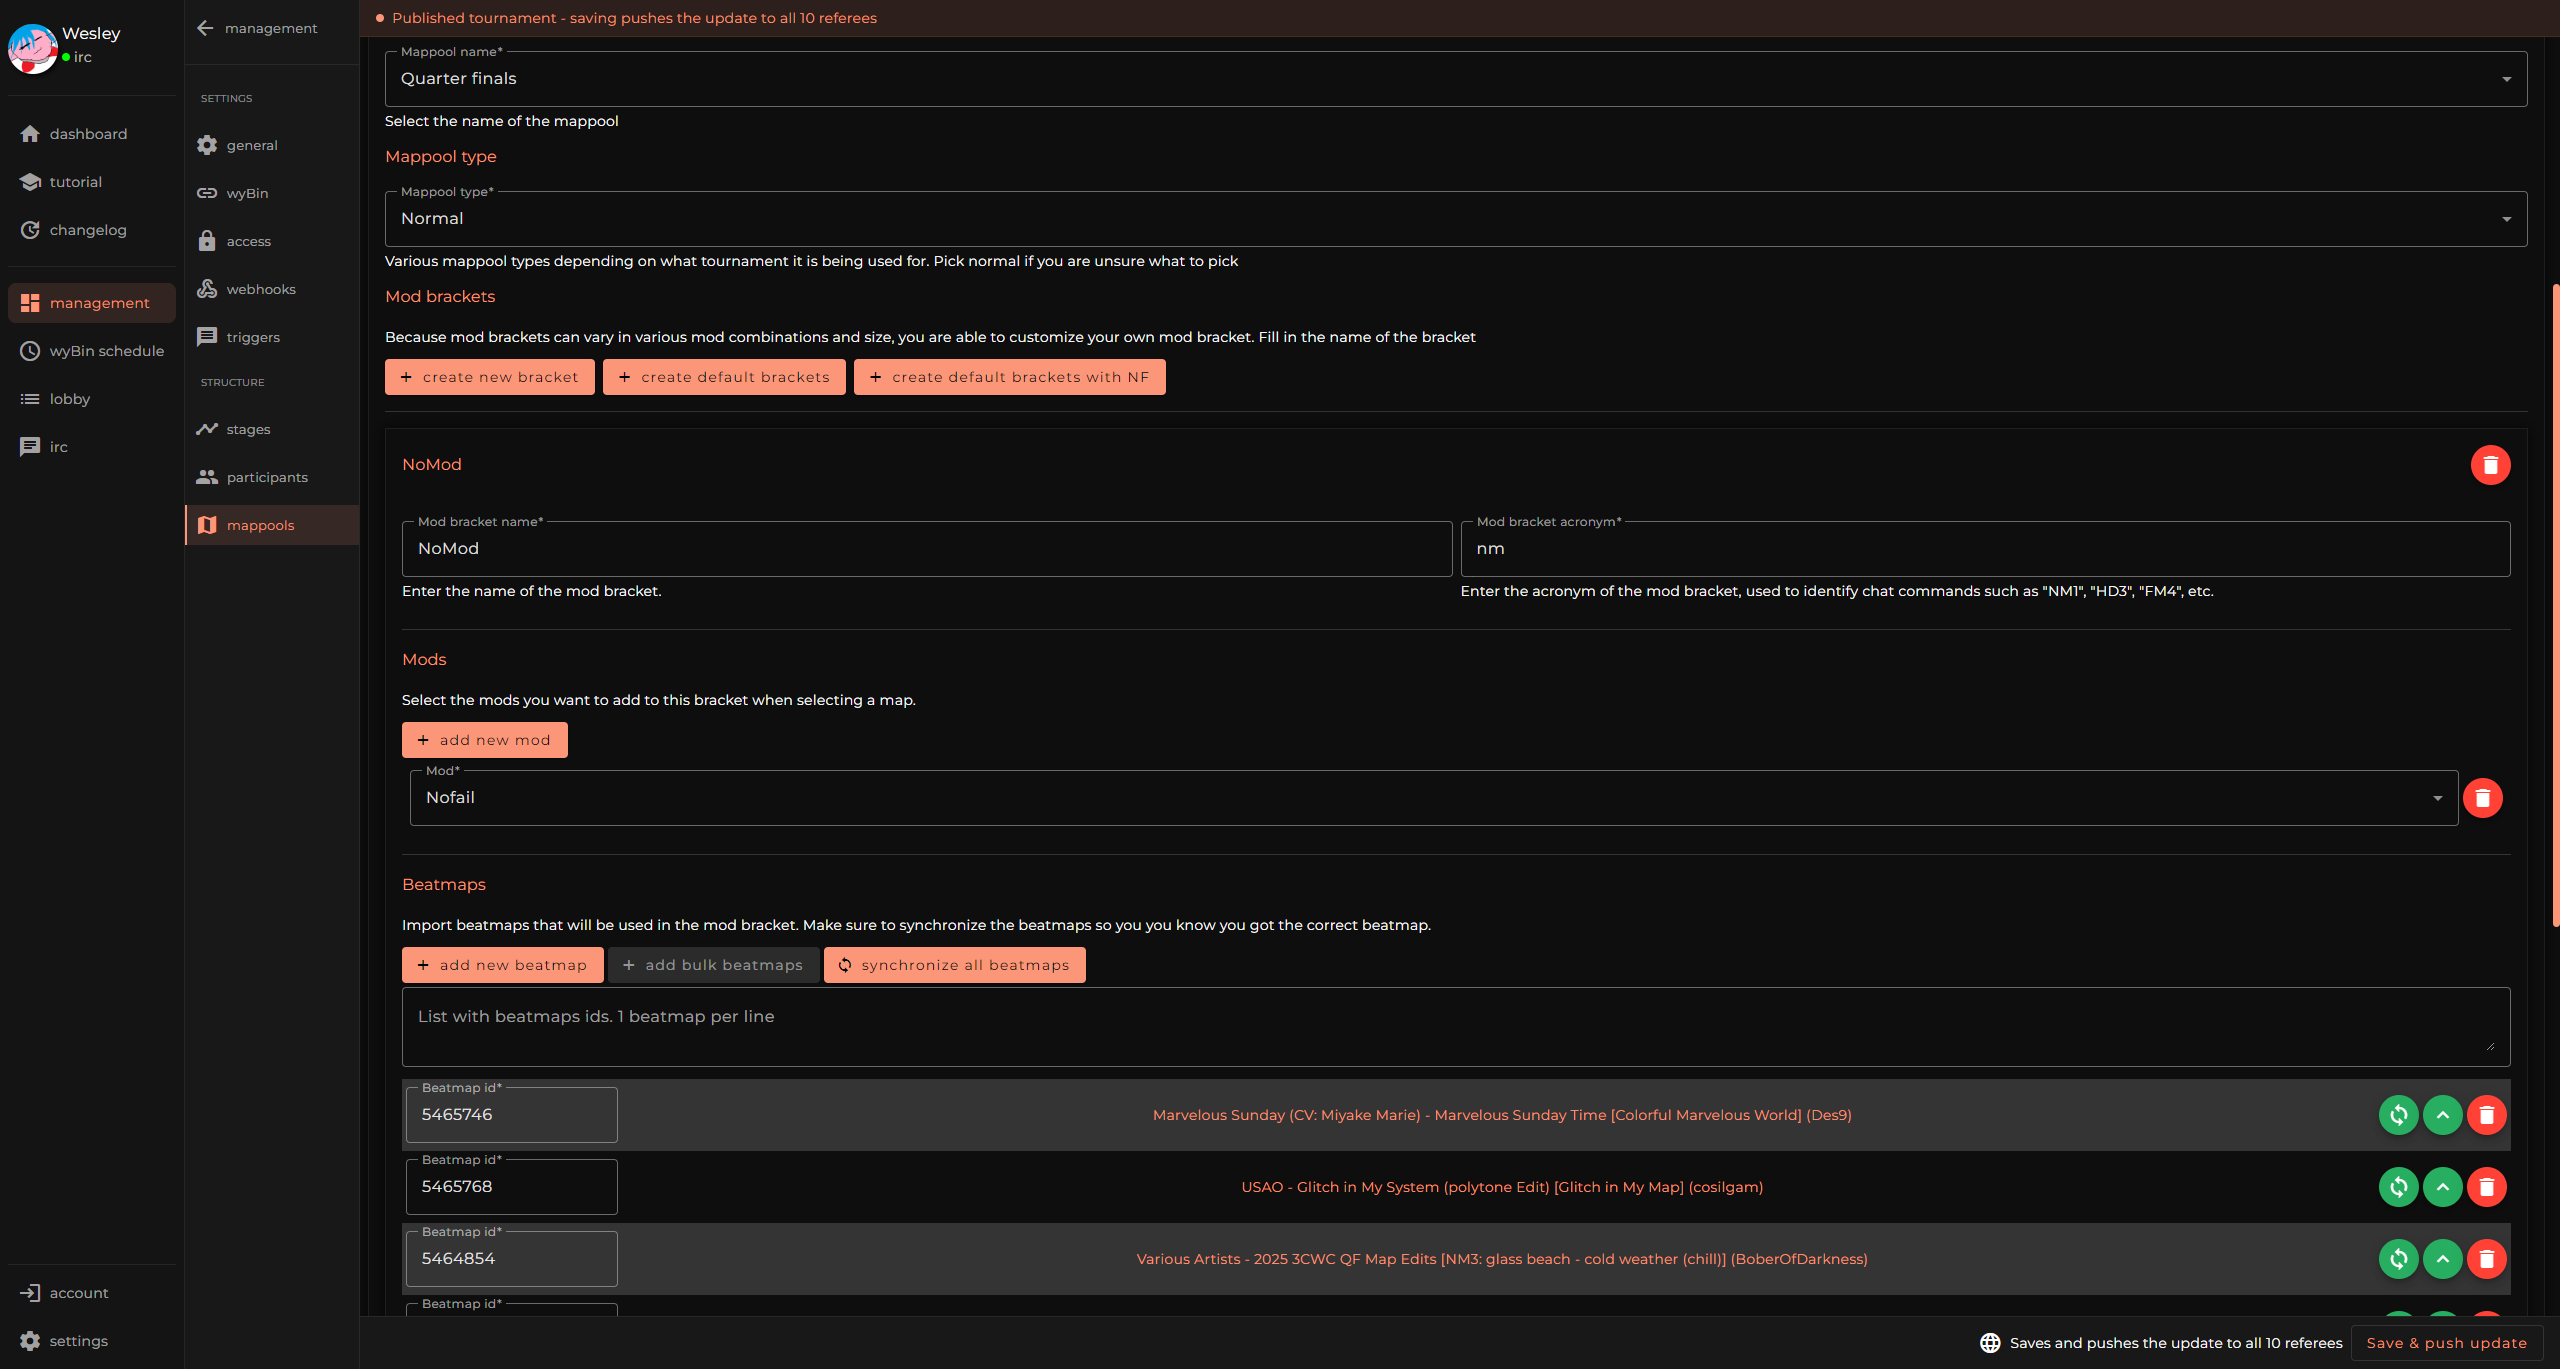
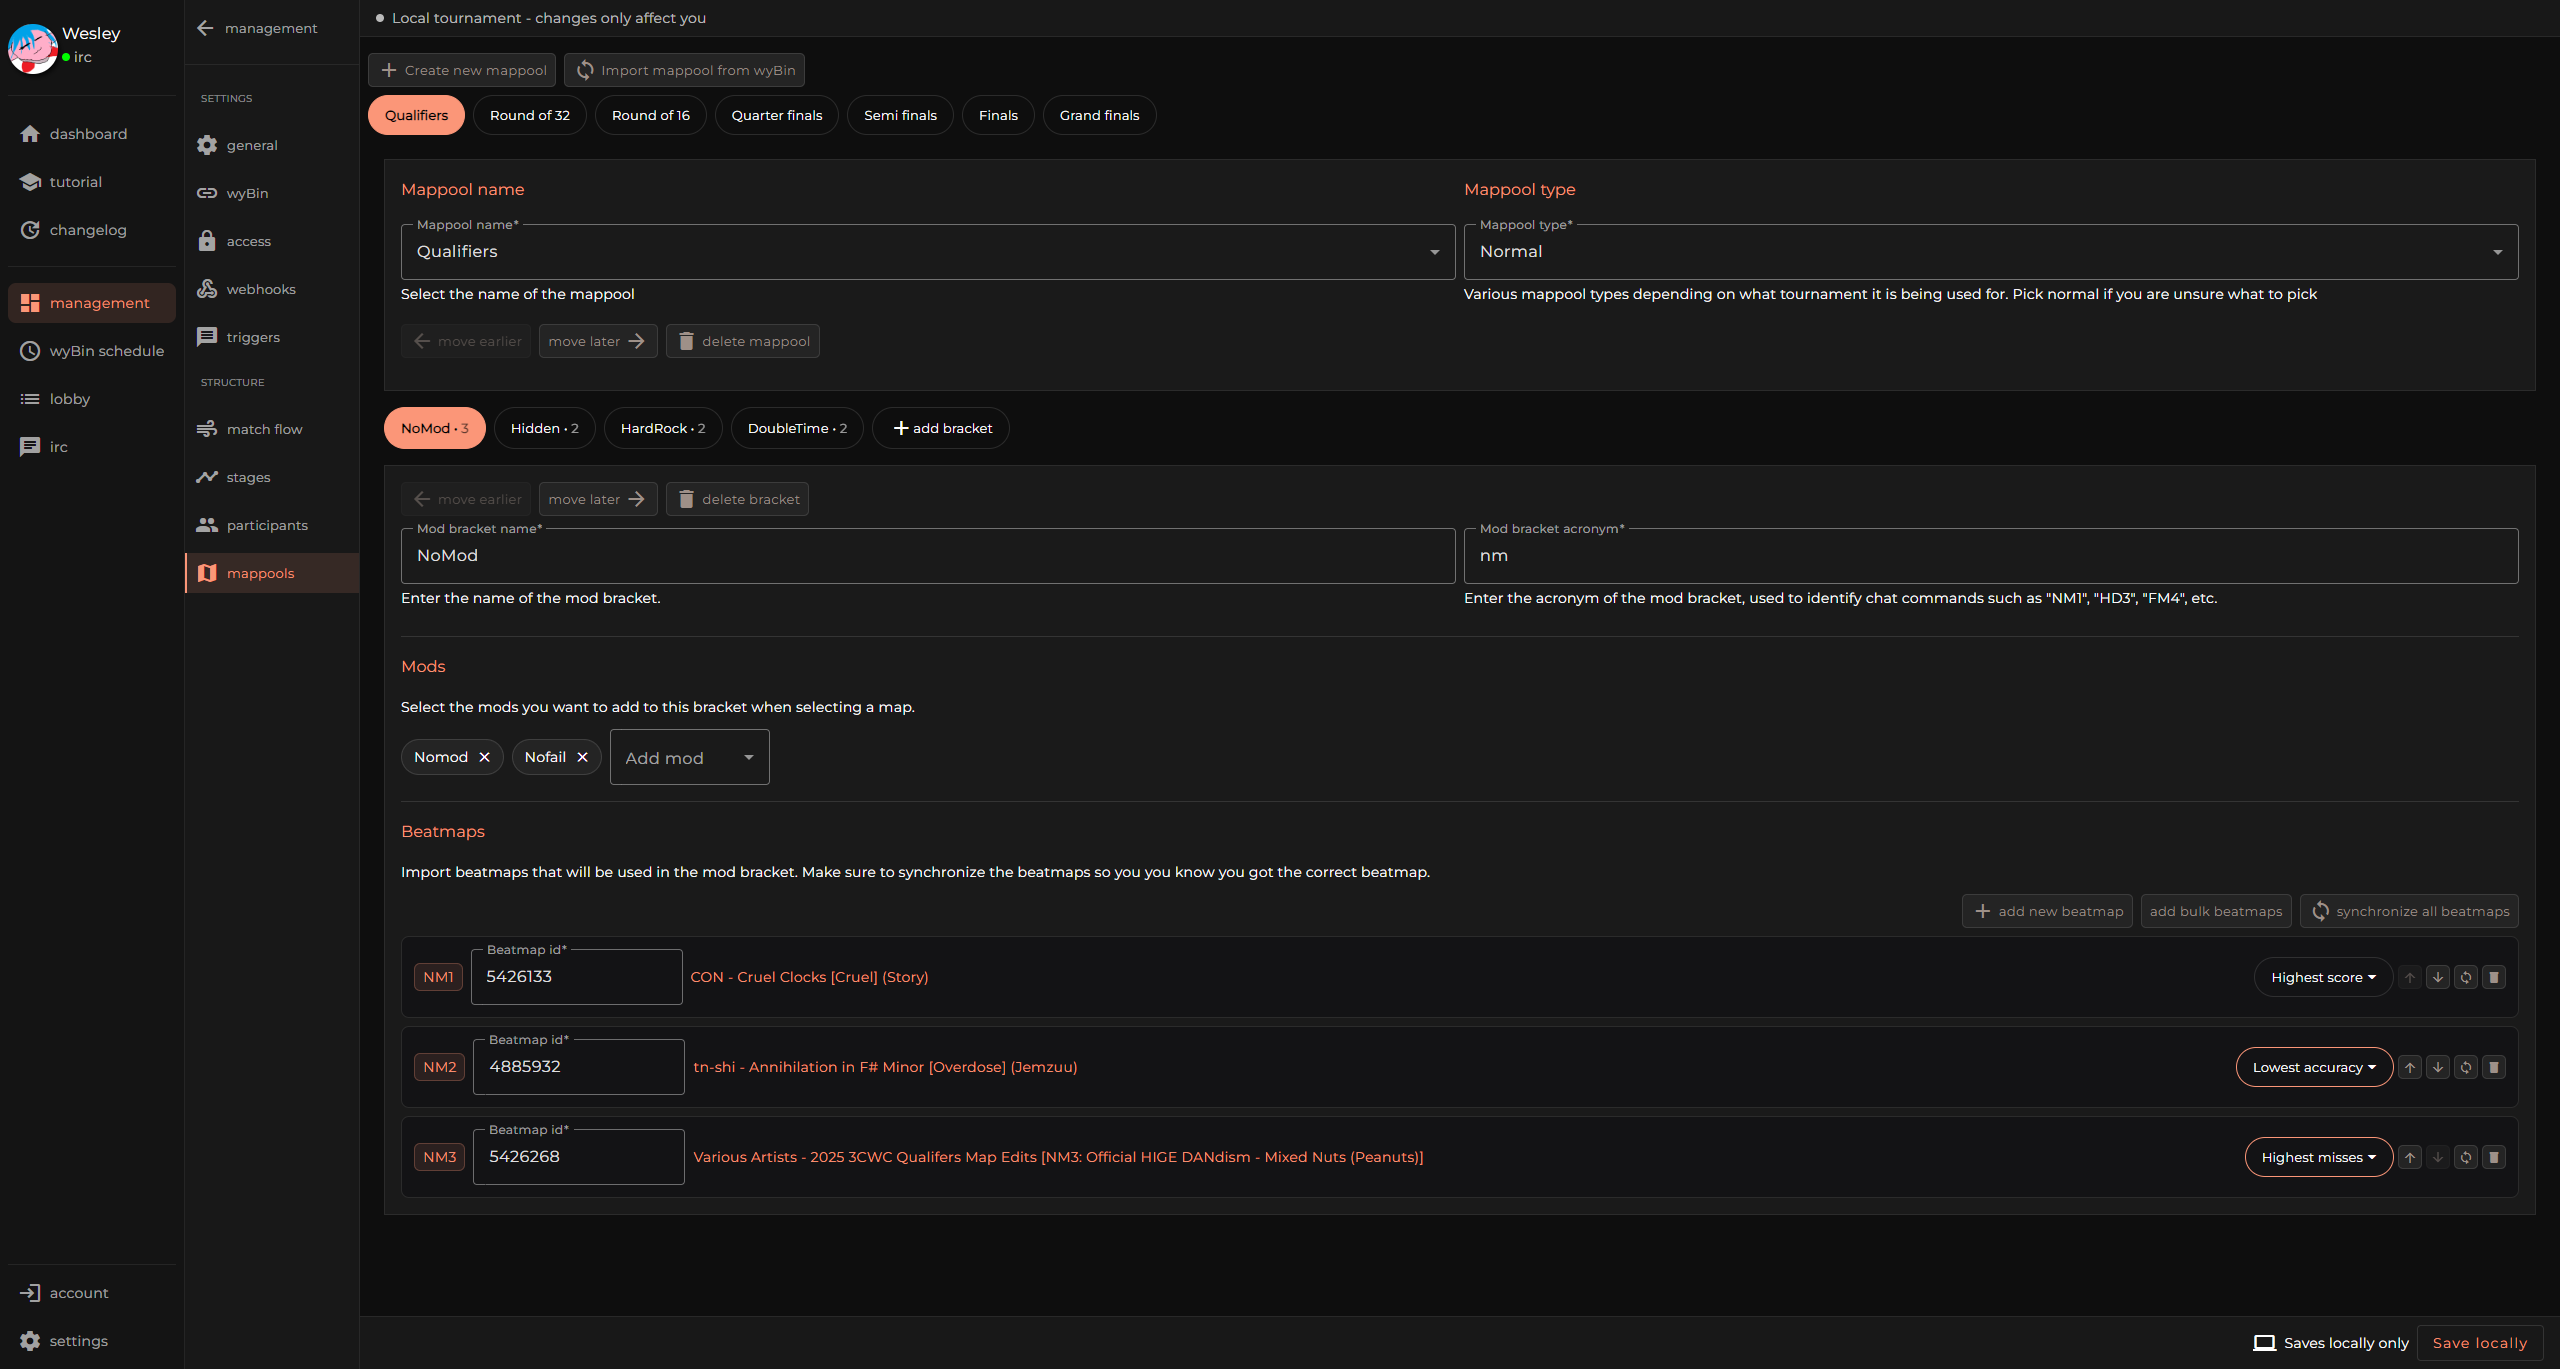
feat: update README

diff --git a/README.md b/README.md
@@ -17,11 +17,17 @@
 - Full IRC functionality.
 - Match progression tracking:
 	- Live score updates.
-	- Tracks picked/banned maps.
-	- Indicates which player/team picks next.
+	- Tracks picked and banned beatmaps.
+	- Shows which team or player picks or bans next.
 - Clickable beatmap list for the current match stage.
-- Recognizes and hyperlinks messages like `NM1`, `DT3`, `FM4`, etc.
+- Automatically recognizes links and beatmap references such as `NM1`, `DT3`, `FM4`.
 - Player invite buttons for current match participants.
+
+#### IRC Customisation
+- Customise your IRC interface to whatever fits your need.
+- Rearrage, resize, add or remove sections to create your preferred layout.
+![IRC customisation](./src/assets/screenshots//irc-customisation.png)
+
 
 ### Tournament Management
 - Manage your tournament by adding referees, participants, and mappools to automate referee tasks.
@@ -31,6 +37,11 @@
 - Mappool configuration per stage:
 	- Each stage has its own mappool.
 	- Mod brackets can specify their own mods, applied alongside the selected beatmap.
+	- Individual beatmaps have their own win conditions, which could be highest/lowest score, accuracy or misses
+
+### Fully customisable match flow
+- Define the order of how the match is supposed to flow. For example, start with two bans per team, followed by two protects per team, another ban per team and then the beatmap picking phase.
+- Configure score-based triggers that will give additional actions when a specific condition has been met. For example, when **Team 1** reaches **3 points**, **Team 2** received additional ban.
 
 ### Custom Score System Support
 - Modify how scores are calculated in real time.
